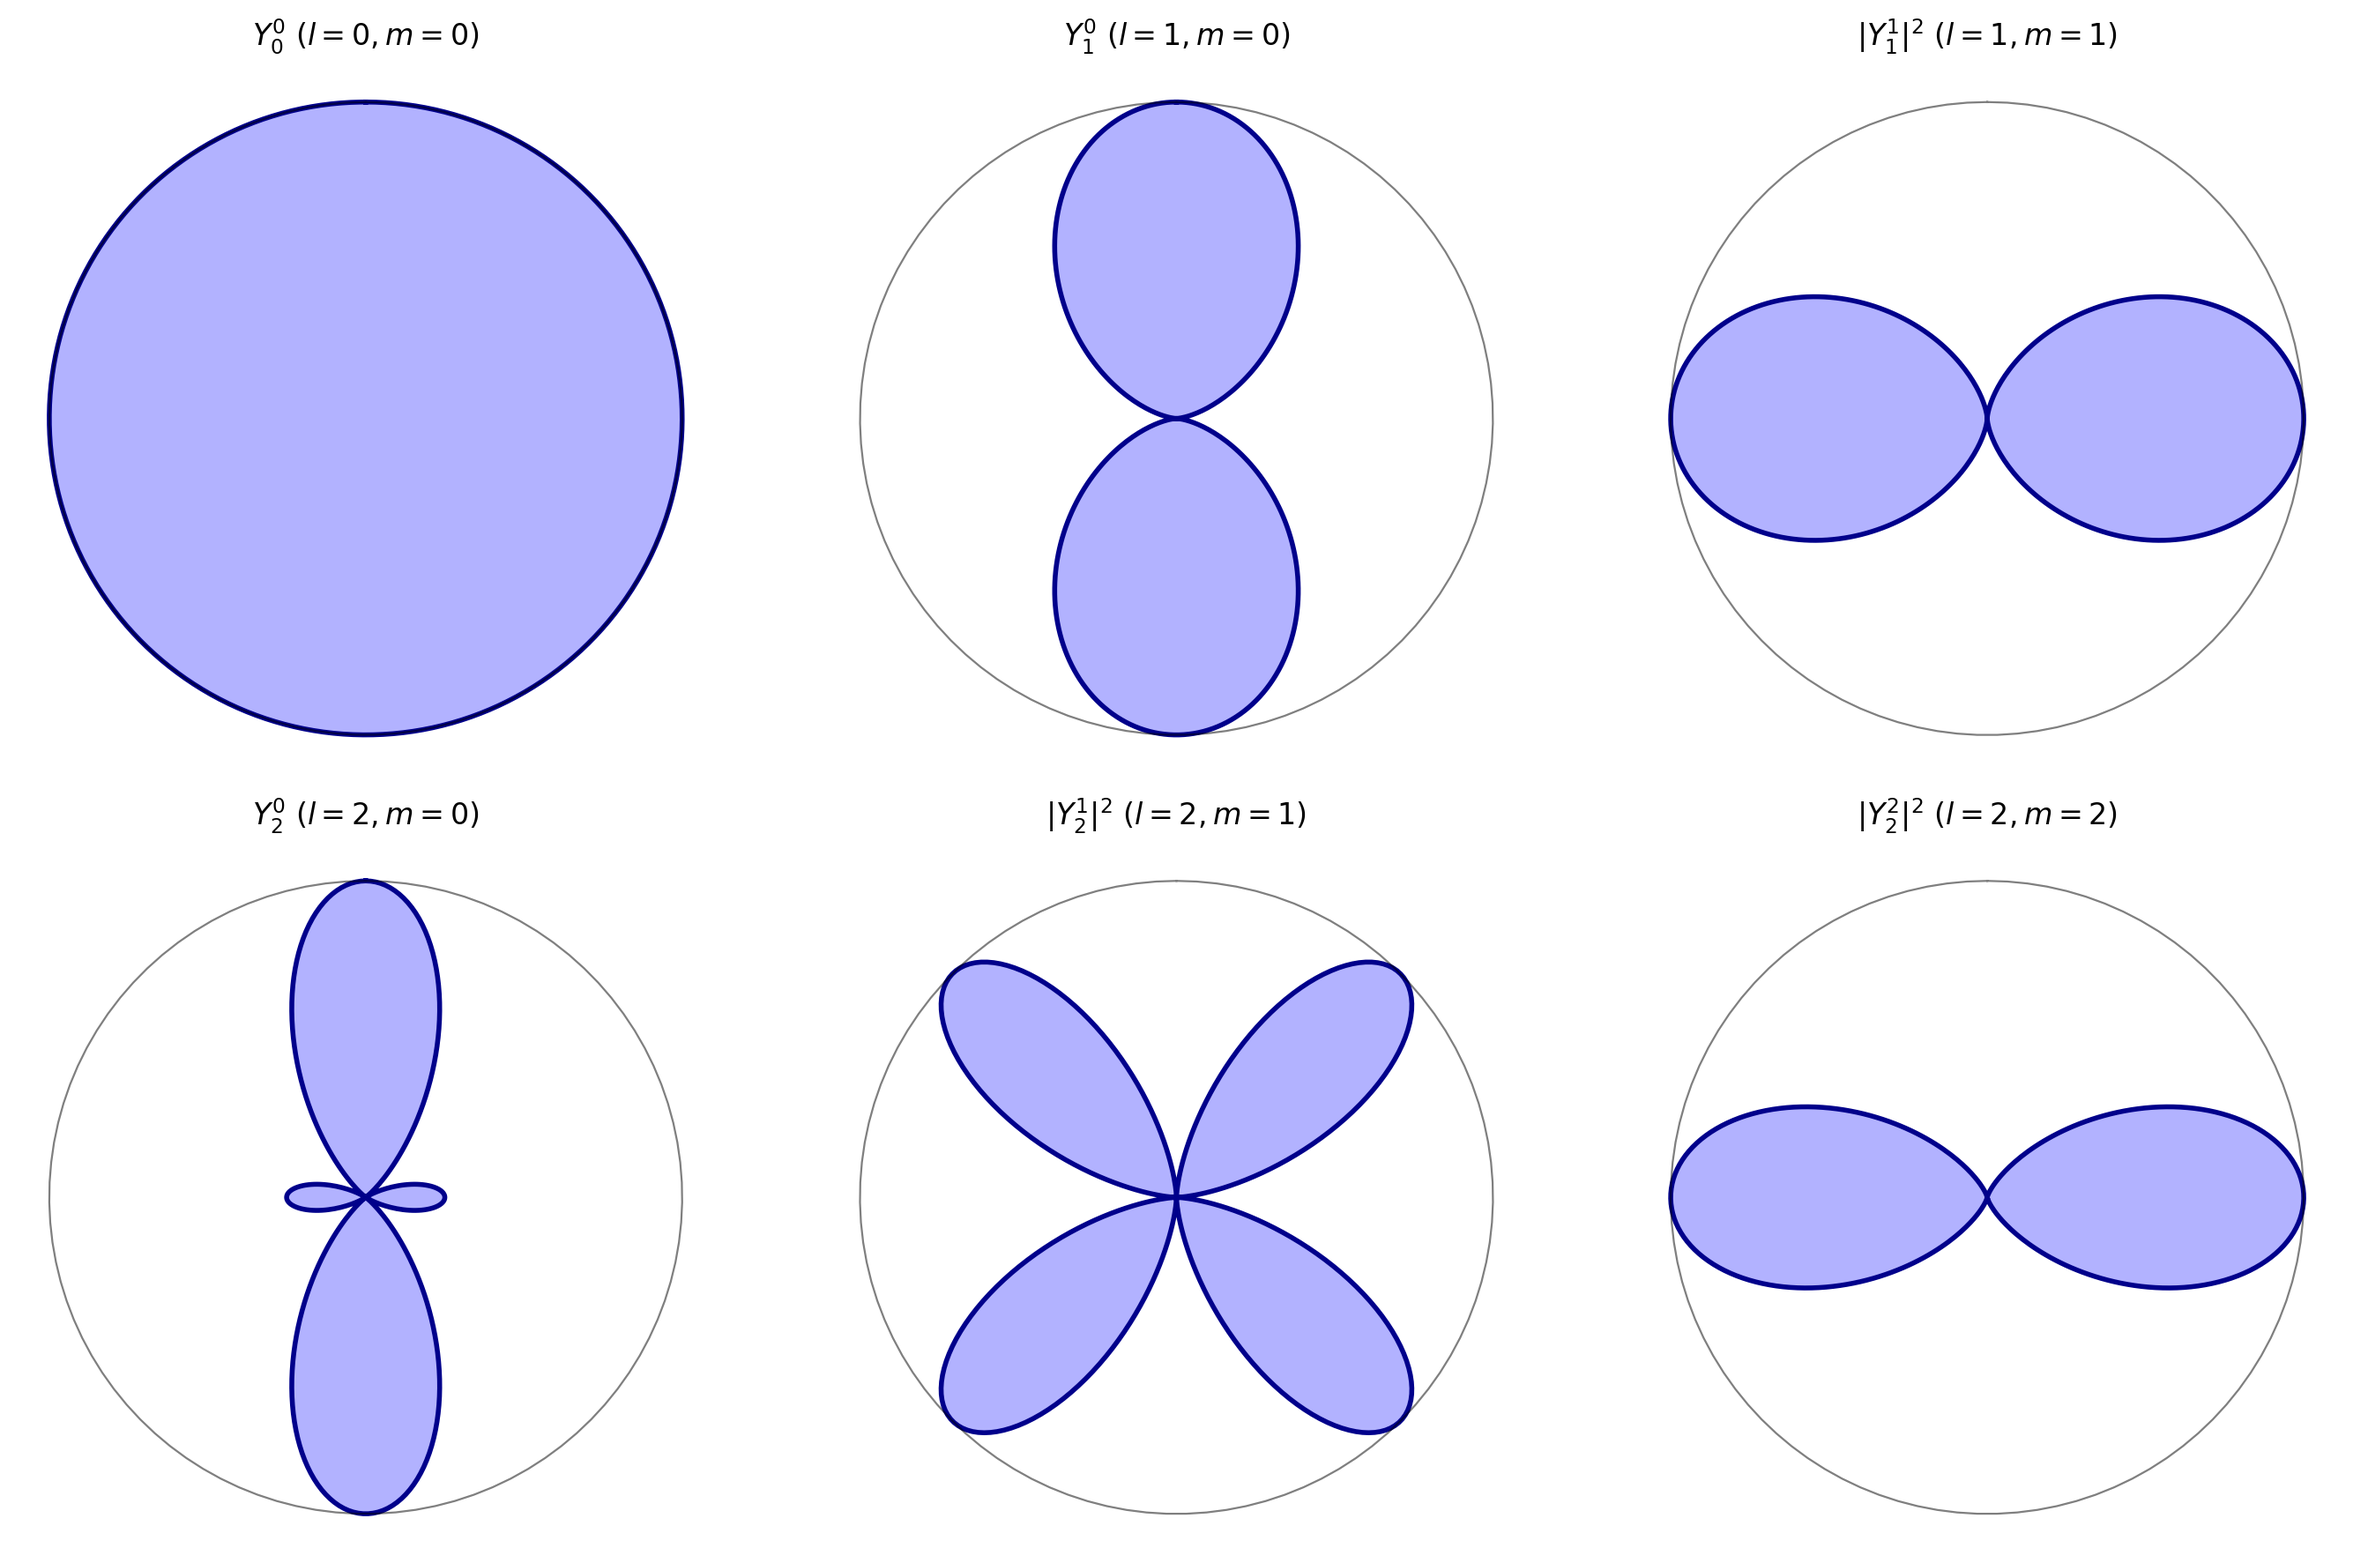
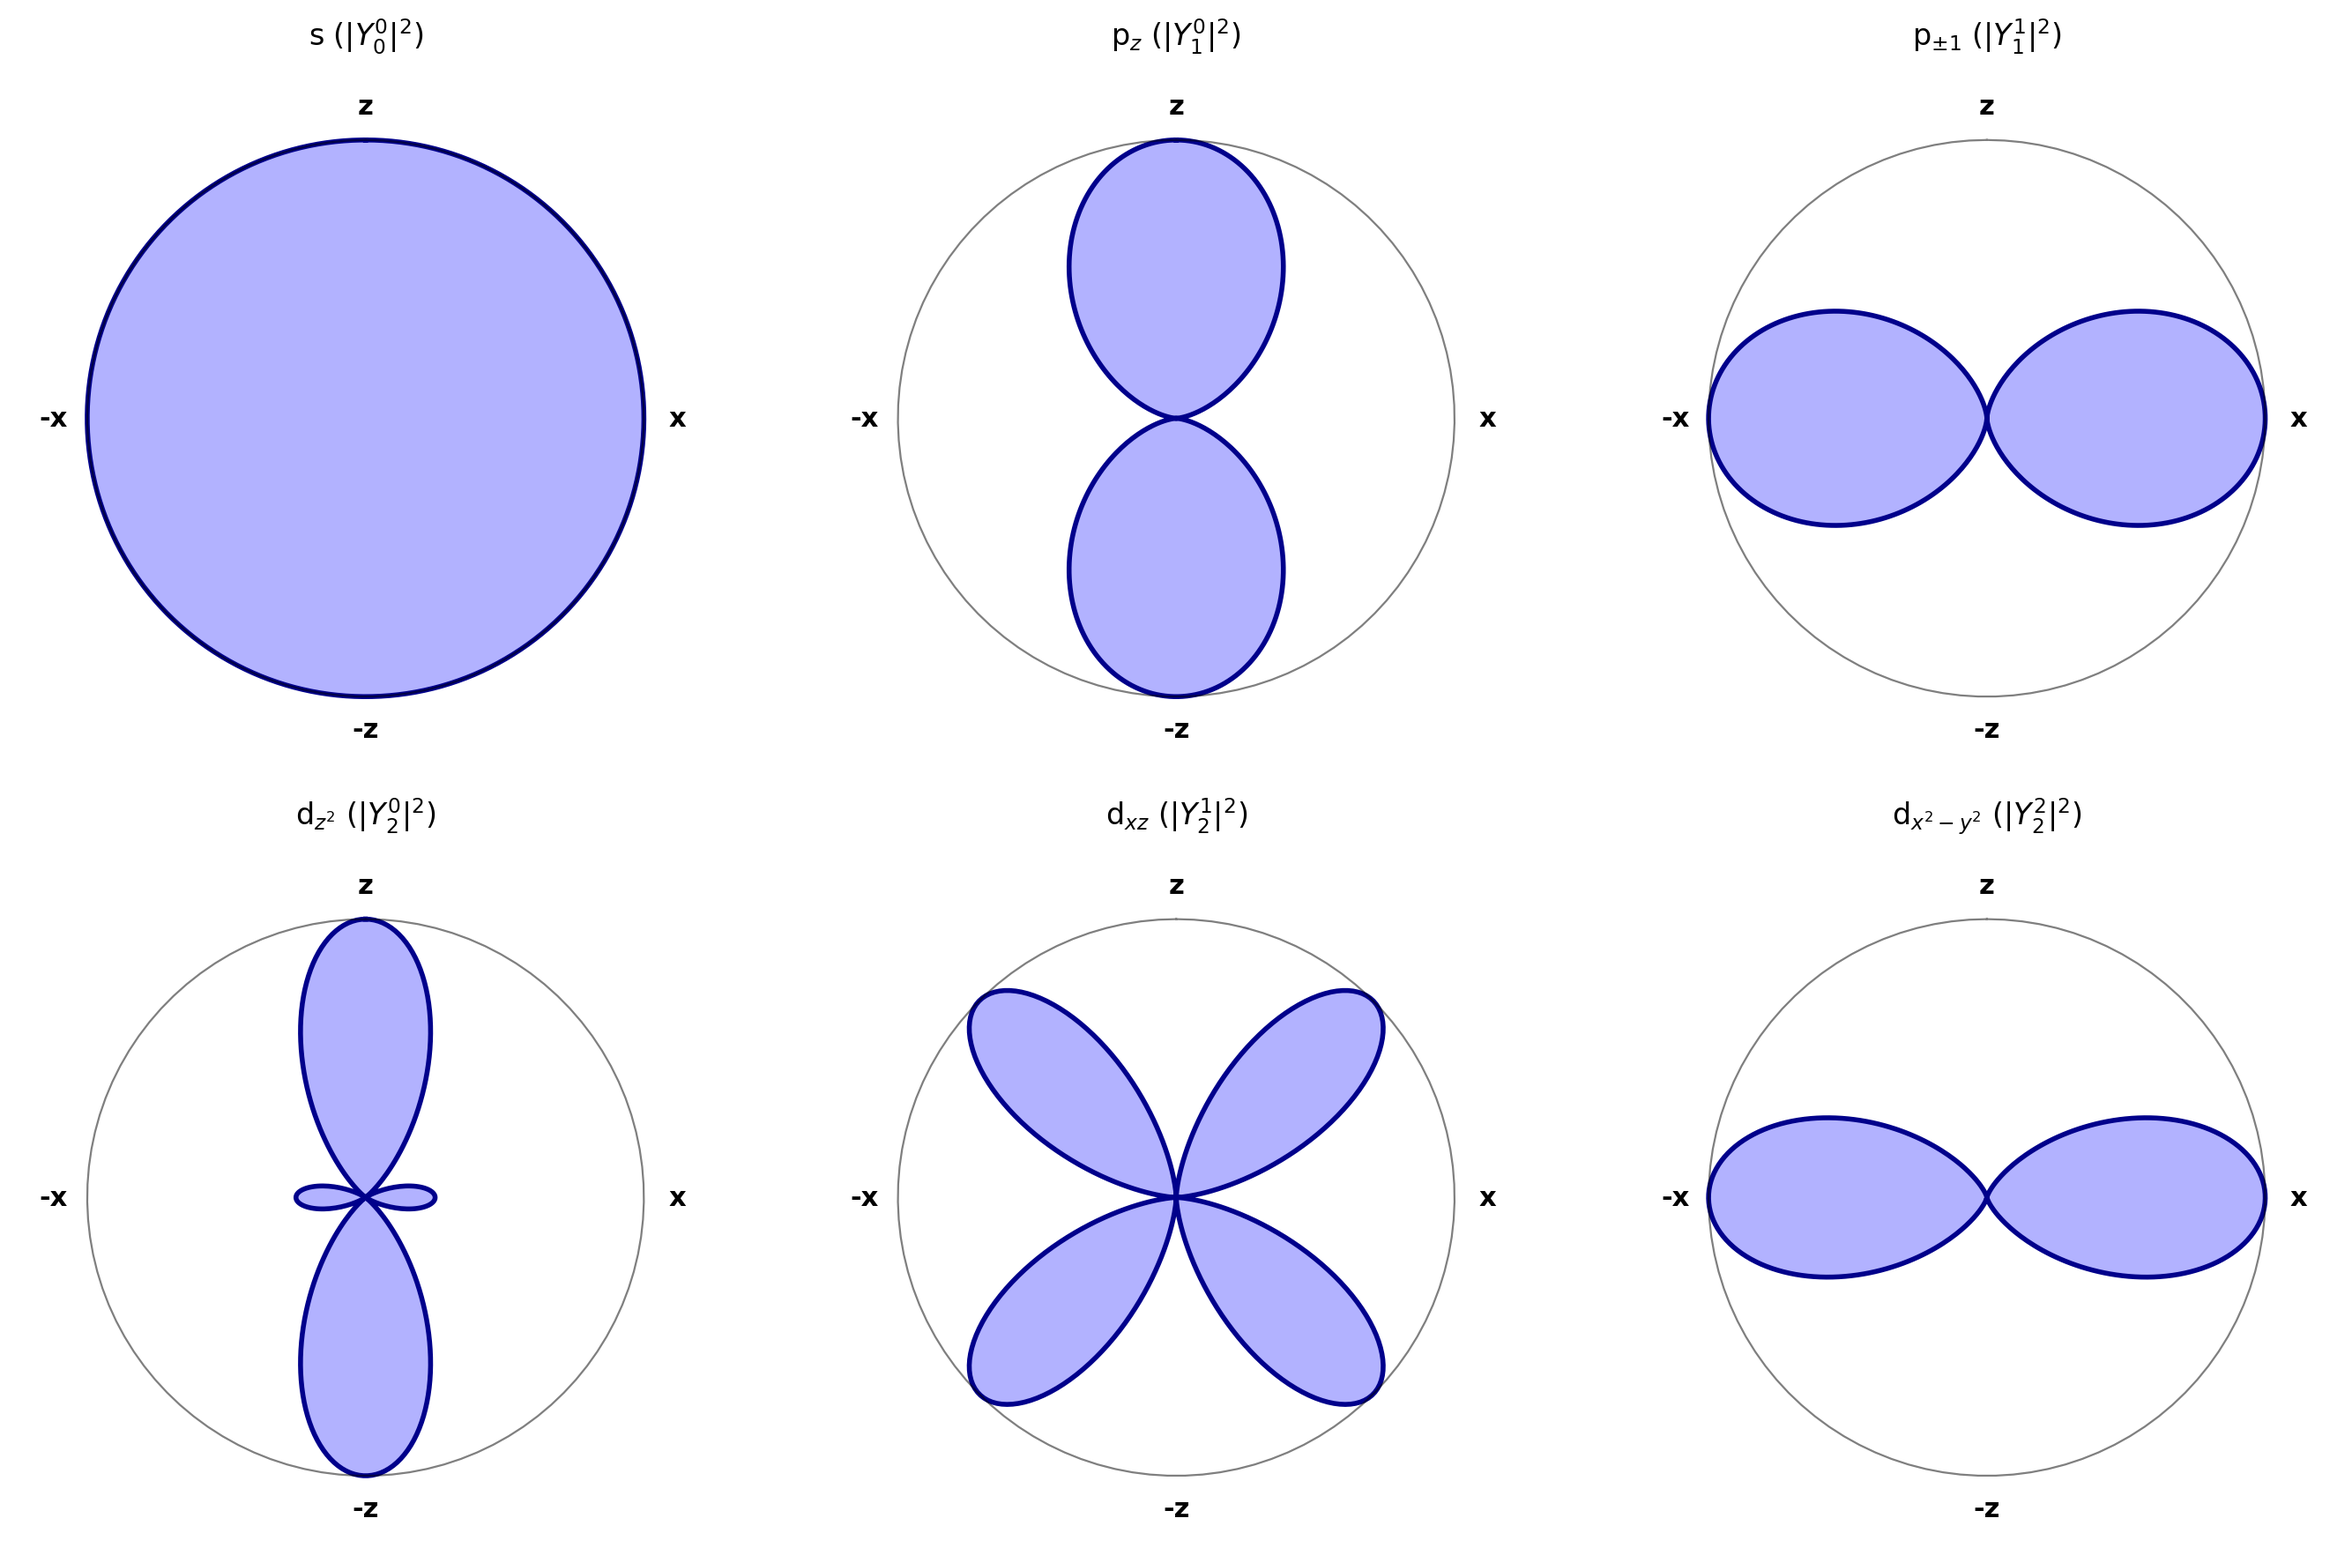
docs(angular-momentum): comprehensive fixes for SH plots and 6.5 section
- Add direction labels (z, x, -z, -x) to spherical harmonics plots
- Uniformly use |Y_lm|^2 notation with orbital labels (s, p_z, p_{±1}, etc.)
- Add explanation of similar shapes for |Y_1^1|^2 and |Y_2^2|^2
- Merge Theorem 2 into 6.4 section
- Rewrite 6.5 with full proofs:
  * [H,A]=0 conservation proof outline
  * SU(2) algebra verification with explicit commutators
  * Z2 quotient proof: (-U_+)(-U_-) = U_+ U_-
  * Explanation of j=(n-1)/2 from SO(4) Casimirs
  * Classical and quantum physical interpretations

diff --git a/utils/generate_spherical_harmonics.py b/utils/generate_spherical_harmonics.py
@@ -123,13 +123,14 @@ def plot_all_spherical_harmonics():
     fig, axes = plt.subplots(2, 3, figsize=(14, 9))
     axes = axes.flatten()
     
+    # All plotted as |Y_lm|^2 (probability density)
     orbitals = [
-        (0, 0, '$Y_0^0$ ($l=0, m=0$)'),
-        (1, 0, '$Y_1^0$ ($l=1, m=0$)'),
-        (1, 1, '$|Y_1^1|^2$ ($l=1, m=1$)'),
-        (2, 0, '$Y_2^0$ ($l=2, m=0$)'),
-        (2, 1, '$|Y_2^1|^2$ ($l=2, m=1$)'),
-        (2, 2, '$|Y_2^2|^2$ ($l=2, m=2$)'),
+        (0, 0, r's ($|Y_0^0|^2$)'),
+        (1, 0, r'p$_z$ ($|Y_1^0|^2$)'),
+        (1, 1, r'p$_{\pm 1}$ ($|Y_1^1|^2$)'),
+        (2, 0, r'd$_{z^2}$ ($|Y_2^0|^2$)'),
+        (2, 1, r'd$_{xz}$ ($|Y_2^1|^2$)'),
+        (2, 2, r'd$_{x^2-y^2}$ ($|Y_2^2|^2$)'),
     ]
     
     from scipy.special import sph_harm_y
@@ -159,9 +160,19 @@ def plot_all_spherical_harmonics():
         ax.plot(max_r * np.sin(circle_theta), max_r * np.cos(circle_theta), 
                 'k-', linewidth=0.8, alpha=0.5)
         
+        # Add direction labels
+        max_r = Y_vals.max()
+        offset = max_r * 0.12
+        ax.text(0, max_r + offset, 'z', ha='center', va='center', fontsize=11, fontweight='bold')
+        ax.text(0, -max_r - offset, '-z', ha='center', va='center', fontsize=11, fontweight='bold')
+        ax.text(max_r + offset, 0, 'x', ha='center', va='center', fontsize=11, fontweight='bold')
+        ax.text(-max_r - offset, 0, '-x', ha='center', va='center', fontsize=11, fontweight='bold')
+        
         # Set equal aspect and remove axes
         ax.set_aspect('equal')
         ax.axis('off')
+        ax.set_xlim(-max_r*1.25, max_r*1.25)
+        ax.set_ylim(-max_r*1.25, max_r*1.25)
         ax.set_title(label, fontsize=12, pad=10)
     
     plt.tight_layout()

diff --git a/docs/posts/quantum-mechanics/angular-momentum-algebra.md b/docs/posts/quantum-mechanics/angular-momentum-algebra.md
@@ -1662,7 +1662,12 @@ where $P_l^m$ are the associated Legendre polynomials.
 
 <img src="/images/angular-momentum/spherical_harmonics_overview.png" width="700px" alt="Spherical harmonics visualization">
 
-*Visualization of $|Y_l^m|^2$ for s, p, and d orbitals in the x-z plane. The radial distance from the origin represents the probability density in that direction.*
+*Visualization of $|Y_l^m|^2$ (probability density) for s, p, and d orbitals in the x-z plane. The radial distance from the origin represents the probability density in that direction.*
+
+**Note on the Visualization:**
+- All plots show **$|Y_l^m|^2$** (modulus squared), which is the physical probability density
+- **$|Y_1^1|^2$ vs $|Y_2^2|^2$**: Both appear as "dumbbell" shapes in the x-z plane because $m \neq 0$ states have their maximum probability in the equatorial ($xy$) plane. The x-z cross-section shows the edge-on view of these toroidal distributions. The difference is in their angular dependence: $|Y_1^1|^2 \propto \sin^2\theta$ while $|Y_2^2|^2 \propto \sin^4\theta$, giving the latter a more flattened appearance.
+- **Direction labels**: $z$ is vertical (up), $x$ is horizontal (right)
 
 **Orbital Naming Convention:**
 
@@ -1730,33 +1735,33 @@ $$R_{nl}(r) \xrightarrow{r \to 0} r^l$$
 
 The centrifugal barrier $\frac{\hbar^2 l(l+1)}{2\mu r^2}$ prevents particles with $l \geq 1$ from reaching the origin. Only s-waves ($l = 0$) have non-zero probability density at $r = 0$.
 
-### 6.4 Radial Equation and Angular Momentum Barrier
+### 6.4 Radial Equation and Centrifugal Barrier
 
-Substituting into the Schrödinger equation:
+Substituting $\psi = R_{nl}(r)Y_l^m(\theta,\phi)$ into the Schrödinger equation gives the radial equation:
 
 $$\left[-\frac{\hbar^2}{2\mu}\frac{1}{r^2}\frac{d}{dr}\left(r^2\frac{d}{dr}\right) + \frac{\hbar^2 l(l+1)}{2\mu r^2} + V(r)\right]R_{nl}(r) = E R_{nl}(r)$$
 
-Define $u_{nl}(r) = r R_{nl}(r)$:
+Define $u_{nl}(r) = r R_{nl}(r)$ to obtain a 1D Schrödinger-like equation:
 
 $$\left[-\frac{\hbar^2}{2\mu}\frac{d^2}{dr^2} + V_{\text{eff}}(r)\right]u_{nl}(r) = E u_{nl}(r)$$
 
-with the effective potential:
+with the **effective potential**:
 
 $$\boxed{V_{\text{eff}}(r) = V(r) + \frac{\hbar^2 l(l+1)}{2\mu r^2}}$$
 
-The second term is the **centrifugal barrier** arising from angular momentum. This term effectively prevents the particle from reaching the origin when $l \neq 0$.
+The second term is the **centrifugal barrier**. For $l \geq 1$, this barrier diverges as $r \to 0$, preventing the particle from reaching the origin.
 
-**Physical Interpretation of the Centrifugal Barrier**
+**Behavior Near the Origin**
 
-The radial equation describes one-dimensional motion in the effective potential. The centrifugal term $\frac{\hbar^2 l(l+1)}{2\mu r^2}$ acts as a repulsive barrier that:
-- Diverges as $r \to 0$ for $l \geq 1$
-- Pushes the wavefunction away from the origin
-- Explains why s-states ($l = 0$) have non-zero probability at $r = 0$ while higher angular momentum states vanish at the origin
-
-For small $r$, the behavior of the radial function is:
+Solving the radial equation near $r = 0$ shows:
 $$R_{nl}(r) \xrightarrow{r \to 0} r^l$$
 
-This shows that higher angular momentum states are increasingly suppressed near the origin.
+This demonstrates that:
+- **s-waves ($l=0$)**: $R_{n0}(0) \neq 0$, non-zero probability at origin
+- **p-waves ($l=1$)**: $R_{n1} \propto r$, linear suppression
+- **d-waves ($l=2$)**: $R_{n2} \propto r^2$, quadratic suppression
+
+Higher angular momentum states are increasingly suppressed near the nucleus.
 
 ### 6.5 SO(4) Symmetry and the Runge-Lenz Vector
 
@@ -1766,54 +1771,69 @@ The hydrogen atom possesses an additional conserved quantity beyond angular mome
 
 $$\mathbf{A} = \frac{1}{\mu}\mathbf{p} \times \mathbf{L} - \frac{e^2}{4\pi\varepsilon_0}\frac{\mathbf{r}}{r}$$
 
-For the Coulomb potential, this satisfies:
+**Proof of Conservation:** $[H, \mathbf{A}] = 0$
+
+For the Coulomb Hamiltonian $H = \frac{\mathbf{p}^2}{2\mu} - \frac{e^2}{4\pi\varepsilon_0 r}$, we compute:
+$$[H, \mathbf{A}] = \frac{1}{\mu}[H, \mathbf{p} \times \mathbf{L}] - \frac{e^2}{4\pi\varepsilon_0}\left[H, \frac{\mathbf{r}}{r}\right]$$
+
+Using $[H, L_i] = 0$ and detailed calculation (involving the virial theorem for $1/r$ potential), the commutator vanishes:
 $$[H, \mathbf{A}] = 0$$
 
-This conservation law is responsible for the "accidental" degeneracy of hydrogen energy levels—all states with the same principal quantum number $n$ but different $l$ have the same energy.
+This conservation law explains the "accidental" degeneracy—states with the same $n$ but different $l$ have the same energy.
 
-The Runge-Lenz vector is perpendicular to angular momentum:
-$$\mathbf{A} \cdot \mathbf{L} = 0$$
-
-And its magnitude is related to the Hamiltonian:
-$$\mathbf{A}^2 = \left(\frac{e^2}{4\pi\varepsilon_0}\right)^2 + \frac{2H}{\mu}(L^2 + \hbar^2)$$
+**Key Properties:**
+- Perpendicularity: $\mathbf{A} \cdot \mathbf{L} = 0$ (follows from $\mathbf{L} \cdot (\mathbf{p} \times \mathbf{L}) = 0$)
+- Magnitude relation: $\mathbf{A}^2 = \left(\frac{e^2}{4\pi\varepsilon_0}\right)^2 + \frac{2H}{\mu}(L^2 + \hbar^2)$
 
 **Constructing the SO(4) Algebra**
 
-To reveal the SO(4) structure, we define rescaled generators for bound states ($E < 0$):
+For bound states ($E < 0$), define rescaled generators:
 $$\mathbf{K} = \sqrt{-\frac{\mu}{2E}} \mathbf{A}$$
 
-Now form two commuting SU(2) algebras:
+Form two combinations:
 $$\mathbf{J}^{(+)} = \frac{1}{2}(\mathbf{L} + \mathbf{K}), \quad \mathbf{J}^{(-)} = \frac{1}{2}(\mathbf{L} - \mathbf{K})$$
 
-These satisfy:
-$$[J^{(+)}_i, J^{(+)}_j] = i\hbar\epsilon_{ijk}J^{(+)}_k, \quad [J^{(-)}_i, J^{(-)}_j] = i\hbar\epsilon_{ijk}J^{(-)}_k$$
-$$[J^{(+)}_i, J^{(-)}_j] = 0$$
+**Verification of SU(2) Algebras:**
 
-The two algebras commute, giving the structure $\text{SU}(2) \times \text{SU}(2)$.
+Compute using $[L_i, L_j] = i\hbar\epsilon_{ijk}L_k$ and $[K_i, K_j] = i\hbar\epsilon_{ijk}L_k$ (note the cross relations):
 
-**From SU(2)×SU(2) to SO(4)**
+$$[J^{(+)}_i, J^{(+)}_j] = \frac{1}{4}[L_i + K_i, L_j + K_j] = \frac{1}{4}\left([L_i, L_j] + [K_i, K_j]\right) = i\hbar\epsilon_{ijk}J^{(+)}_k$$
 
-The rotation group in 4D relates to these generators as:
+Similarly for $\mathbf{J}^{(-)}$. The cross commutator vanishes:
+$$[J^{(+)}_i, J^{(-)}_j] = \frac{1}{4}[L_i + K_i, L_j - K_j] = \frac{1}{4}\left([L_i, L_j] - [K_i, K_j]\right) = 0$$
+
+This confirms $\text{SU}(2) \times \text{SU}(2)$ structure.
+
+**From SU(2)×SU(2) to SO(4): The $\mathbb{Z}_2$ Quotient**
+
+The isomorphism is:
 $$\text{SO}(4) \cong [\text{SU}(2) \times \text{SU}(2)] / \mathbb{Z}_2$$
 
-The $\mathbb{Z}_2$ quotient arises because a simultaneous $2\pi$ rotation in both SU(2) factors (giving $(-1) \times (-1) = +1$) corresponds to the identity in SO(4). This means:
-- $(\mathbf{J}^{(+)}, \mathbf{J}^{(-)})$ and $(-\mathbf{J}^{(+)}, -\mathbf{J}^{(-)})$ represent the same SO(4) rotation
-- Each SO(4) representation appears twice in the product space
+**Proof of the quotient:** Under a $2\pi$ rotation:
+- Each SU(2) element transforms as $U \to -U$ (spinor property)
+- The product transforms as $(U_+, U_-) \to (-U_+, -U_-)$
+- But $(-U_+)(-U_-) = U_+ U_-$ represents the same SO(4) rotation
 
-**Quantum Numbers and Degeneracy**
+Therefore, $(\mathbf{J}^{(+)}, \mathbf{J}^{(-)})$ and $(-\mathbf{J}^{(+)}, -\mathbf{J}^{(-)})$ are identified, giving the $\mathbb{Z}_2$ quotient.
 
-For the hydrogen atom:
-$$j^{(+)} = j^{(-)} = \frac{n-1}{2}$$
+**Quantum Numbers and $n^2$ Degeneracy**
+
+For hydrogen, the constraint $\mathbf{A}^2 + \frac{2E}{\mu}(L^2 + \hbar^2) = \text{const}$ leads to:
+$$j^{(+)} = j^{(-)} = j$$
+
+The principal quantum number relates to $j$ via:
+$$n = 2j + 1 \quad \Rightarrow \quad j = \frac{n-1}{2}$$
+
+**Explanation:** The energy depends only on $n = n_r + l + 1$ (radial + angular + 1). The SO(4) Casimir operators $C_+ = \mathbf{J}^{(+)}\cdot\mathbf{J}^{(+)}$ and $C_- = \mathbf{J}^{(-)}\cdot\mathbf{J}^{(-)}$ both give the same eigenvalue $j(j+1)\hbar^2$, fixing $j^{(+)} = j^{(-)}$.
 
 The degeneracy is:
-$$g_n = (2j^{(+)} + 1)(2j^{(-)} + 1) = n^2$$
+$$g_n = (2j^{(+)} + 1)(2j^{(-)} + 1) = n \times n = n^2$$
 
-This explains the $n^2$ degeneracy: it's the product of dimensions of two SU(2) representations with $j = (n-1)/2$.
+**Physical Interpretation:**
 
-**Physical Significance:**
-- The SO(4) symmetry is unique to the $1/r$ potential (Coulomb and Newtonian gravity)
-- In classical mechanics: explains closed elliptical orbits (no precession)
-- In quantum mechanics: explains the "accidental" $n^2$ degeneracy beyond the $(2l+1)$ degeneracy from SO(3)
+*Classical Mechanics:* The Runge-Lenz vector points along the major axis of the elliptical orbit. Its conservation means the orbit doesn't precess—closed ellipses are maintained.
+
+*Quantum Mechanics:* The $n^2$ degeneracy arises because SO(4) has larger multiplets than SO(3). While SO(3) gives $(2l+1)$ degeneracy for each $l$, SO(4) combines different $l$ values (with same $n$) into a single irreducible representation of dimension $n^2$.
 
 ---
 
